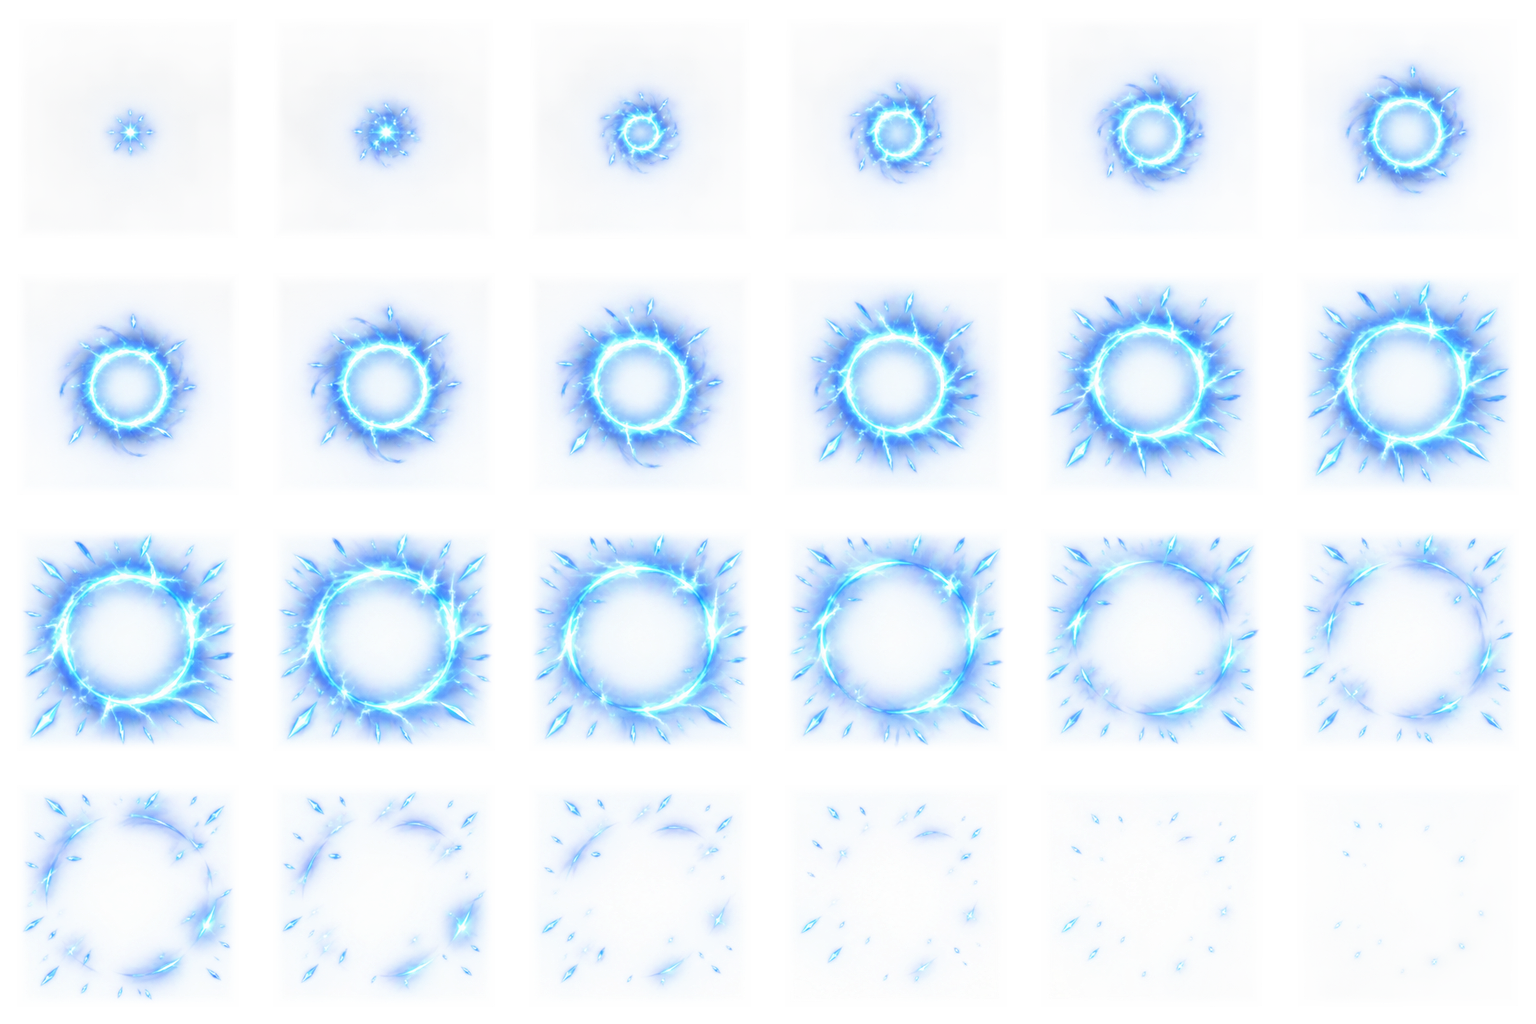
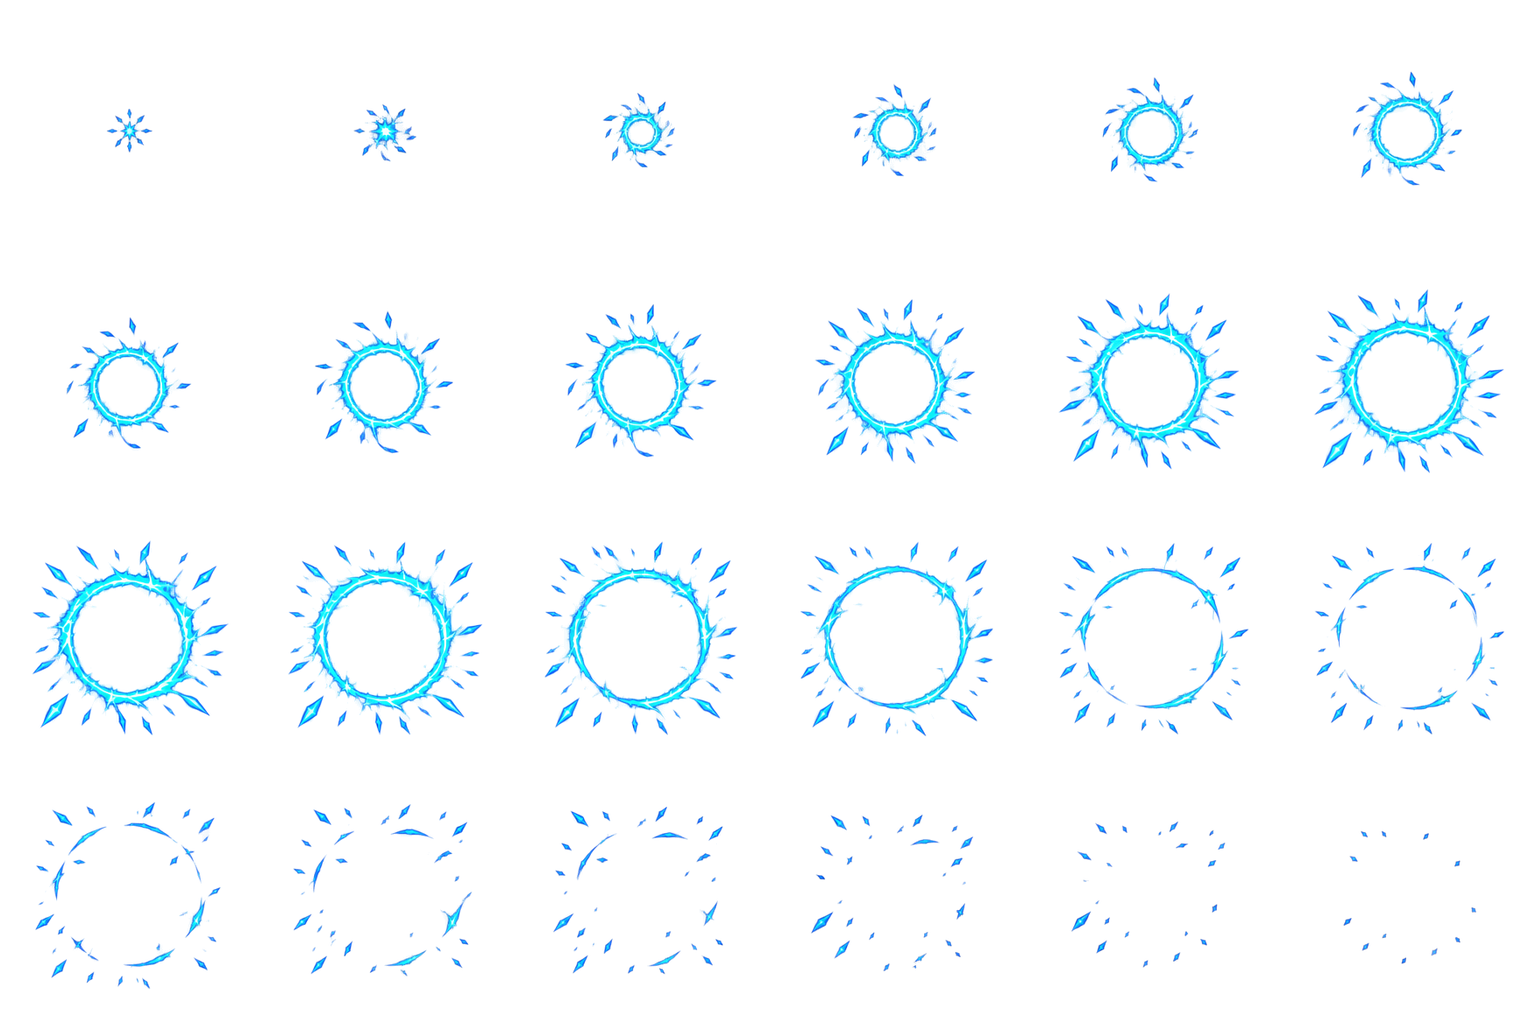
Fix Eclipse repulsion transparency and show shorter ultimate charge

diff --git a/index.html b/index.html
@@ -12,5 +12,5 @@
 <section id="modeScreen" class="app-screen" hidden></section><div id="shopConfirm" hidden></div>
 <div id="integrationLoading" role="status" aria-live="polite"><span class="eyebrow">ELDORIA</span><h2>Iniciando Arena dos Campeões…</h2><p id="bootStage">Preparando menus e personagens.</p></div>
 <script src="js/diagnostico.js"></script>
-<script src="js/jogo.js?v=35"></script><script src="js/identidades_campeoes.js?v=11"></script><script src="js/seis_identidades.js?v=20"></script><script src="js/impactos_futuros.js?v=19"></script><script src="js/arena_horizontal.js?v=16"></script><script src="js/lobby_real.js?v=9"></script><script src="js/menus_simples.js?v=20"></script><script src="js/pixel_sprite.js?v=8"></script><script src="js/combate_identidades.js?v=26"></script><script src="js/combate_seis.js?v=27"></script><script src="js/arte_identidades.js?v=30"></script><script src="js/arte_seis.js?v=27"></script><script src="js/interface_identidades.js?v=11"></script><script src="js/interface_seis.js?v=10"></script><script src="js/arena_arte.js?v=15"></script><script src="js/layout_fixo.js?v=19"></script><script src="js/ninja_v22.js?v=26"></script><script src="js/corpos_v24.js?v=28"></script><script src="js/ninja_v25.js?v=26"></script><script src="js/acoes_universais.js?v=26"></script><script src="js/ichigo_v27.js?v=30"></script><script src="js/solar_v29.js?v=33"></script><script src="js/eclipse_v30.js?v=32"></script><script src="js/recuperar_artes.js?v=20"></script><script src="js/ui_escala.js?v=4"></script><script src="js/chefes_base.js?v=1"></script><script src="js/chefes_looks.js?v=1"></script><script src="js/vilao_zorvath.js?v=2"></script><script src="js/cacada_dia.js?v=11"></script><script src="js/chefes_motor.js?v=3"></script><script src="js/chefes_lote.js?v=1"></script><script src="js/menu_v2.js?v=3"></script><script src="js/retencao.js?v=3"></script><script src="js/copia_chefe.js?v=3"></script><script src="js/fase_arcade.js?v=10"></script><script src="js/sobrevivencia.js?v=14"></script><script src="js/economia.js?v=2"></script><script src="js/combate_v3.js?v=14"></script><script src="js/hud_v3.js?v=4"></script><script src="js/combate_v3b.js?v=3"></script><script src="js/menus_v3.js?v=2"></script><script src="js/iniciar.js"></script><script src="js/tela_cheia.js?v=17"></script></body></html>
+<script src="js/jogo.js?v=35"></script><script src="js/identidades_campeoes.js?v=11"></script><script src="js/seis_identidades.js?v=21"></script><script src="js/impactos_futuros.js?v=19"></script><script src="js/arena_horizontal.js?v=16"></script><script src="js/lobby_real.js?v=9"></script><script src="js/menus_simples.js?v=20"></script><script src="js/pixel_sprite.js?v=8"></script><script src="js/combate_identidades.js?v=26"></script><script src="js/combate_seis.js?v=28"></script><script src="js/arte_identidades.js?v=30"></script><script src="js/arte_seis.js?v=27"></script><script src="js/interface_identidades.js?v=11"></script><script src="js/interface_seis.js?v=10"></script><script src="js/arena_arte.js?v=15"></script><script src="js/layout_fixo.js?v=19"></script><script src="js/ninja_v22.js?v=26"></script><script src="js/corpos_v24.js?v=28"></script><script src="js/ninja_v25.js?v=26"></script><script src="js/acoes_universais.js?v=26"></script><script src="js/ichigo_v27.js?v=30"></script><script src="js/solar_v29.js?v=33"></script><script src="js/eclipse_v30.js?v=33"></script><script src="js/recuperar_artes.js?v=20"></script><script src="js/ui_escala.js?v=4"></script><script src="js/chefes_base.js?v=1"></script><script src="js/chefes_looks.js?v=1"></script><script src="js/vilao_zorvath.js?v=2"></script><script src="js/cacada_dia.js?v=11"></script><script src="js/chefes_motor.js?v=3"></script><script src="js/chefes_lote.js?v=1"></script><script src="js/menu_v2.js?v=3"></script><script src="js/retencao.js?v=3"></script><script src="js/copia_chefe.js?v=3"></script><script src="js/fase_arcade.js?v=10"></script><script src="js/sobrevivencia.js?v=14"></script><script src="js/economia.js?v=2"></script><script src="js/combate_v3.js?v=14"></script><script src="js/hud_v3.js?v=4"></script><script src="js/combate_v3b.js?v=3"></script><script src="js/menus_v3.js?v=2"></script><script src="js/iniciar.js"></script><script src="js/tela_cheia.js?v=17"></script></body></html>
 

diff --git a/js/eclipse_v30.js b/js/eclipse_v30.js
@@ -2,7 +2,7 @@
 // Visual adapters only: damage, movement, resources and cooldowns stay in the combat engine.
 const ECLIPSE30_BODY=rwImage('assets/eclipse_v30/body.webp?v=31');
 const ECLIPSE30_KEYS=['repulse','attract','red','teleport','barrier','domain'];
-const ECLIPSE30_FX=Object.fromEntries([...ECLIPSE30_KEYS,'impact'].map(k=>[k,rwImage(`assets/eclipse_v30/${k}.webp?v=30`)]));
+const ECLIPSE30_FX=Object.fromEntries([...ECLIPSE30_KEYS,'impact'].map(k=>[k,rwImage(`assets/eclipse_v30/${k}.webp?v=${k==='repulse'?33:30}`)]));
 let eclipse30Registration=null;
 function eclipse30Register(){
  if(eclipse30Registration)return eclipse30Registration;
@@ -37,6 +37,8 @@ function eclipse30Cell(key,f){
  const im=ECLIPSE30_FX[key];
  c=document.createElement('canvas');c.width=c.height=256;const g=c.getContext('2d');
  g.drawImage(im,f%6*256,Math.floor(f/6)*256,256,256,0,0,256,256);
+ // Repulsion now has clean source alpha; do not alter its ring or fragments.
+ if(key==='repulse'){eclipse30Clean.set(id,c);return c;}
  const data=g.getImageData(0,0,256,256),d=data.data,round=key==='barrier';
  for(let y=0;y<256;y++)for(let x=0;x<256;x++){
   const i=(y*256+x)*4;let a=d[i+3];if(!a)continue;
@@ -67,8 +69,10 @@ rwPaintFX=function(e){
  if(e.skin!==4)return eclipse30OldPaint(e);
  const u=clamp(e.age/e.duration,0,1),x=e.follow?e.owner.x:e.x,y=e.follow?e.owner.y:e.y;
  if(e.kind==='warning'){
-  // Preserve the actual dodge window and area indicator.
-  return eclipse30OldPaint(e);
+  eclipse30OldPaint(e);
+  // Grow the domain visibly throughout its remaining dodge window.
+  if(e.slot===5&&e.owner.hp>0)eclipse30Effect(ctx,'domain',8,x,y-40,50+u*((e.radius||150)*2.3-50),0,false,.85);
+  return;
  }
  if(e.slot===4)return;
  if(e.kind==='departure'||e.kind==='arrival')return eclipse30Effect(ctx,'teleport',u*24,x,y-30,115);
@@ -86,10 +90,15 @@ integratedDepth=function(){
   eclipse30Effect(ctx,'red',e.age<.16?e.age/.16*8:8+Math.floor(e.age*24)%8,e.x,e.y-28,e.size||105,e.angle,true);
  }});
  for(const o of objects)if(o.v10Domain&&o.life>0&&o.owner.hp>0)list.push({kind:'eclipse-domain',y:o.y-180,priority:-1,paint(){
-  const f=o.age<.35?o.age/.35*8:o.life<.6?16+(1-o.life/.6)*8:8+Math.floor(o.age*16)%8;
+  const f=o.life<.6?16+(1-o.life/.6)*8:8+Math.floor(o.age*16)%8;
   eclipse30Effect(ctx,'domain',f,o.x,o.y-40,o.r*2.3,0,false,.85);
  }});
  for(const a of actors){if(a.skin!==4||a.hp<=0)continue;const s=reworkState(a);
+  const q=a.rwCast;
+  if(q?.slot===5&&q.age<q.release)list.push({kind:'eclipse-charge',y:a.y+.4,priority:4,paint(){
+   const u=clamp(q.age/q.release,0,1);
+   eclipse30Effect(ctx,'domain',8,a.x+Math.cos(q.angle)*20,a.y-23+Math.sin(q.angle)*8,24+u*26,0,false,.9);
+  }});
   const birth=Reforged.effects.find(e=>e.owner===a&&e.slot===4&&e.kind==='cast'&&e.age<e.duration);
   if(s.barrier||s.barrierBroken>3.5)list.push({kind:'eclipse-barrier',y:a.y+.3,priority:3,paint(){
    const f=!s.barrier?16+(4-s.barrierBroken)/.5*8:birth?birth.age/birth.duration*8:clock-s.barrierHit<.4?8+(1-s.barrierEnergy/240)*7:6+Math.floor(vfxTime*4)%2;

diff --git a/js/seis_identidades.js b/js/seis_identidades.js
@@ -38,7 +38,7 @@ const ORIGINAL_REWORK_KITS=[
 ['Esfera Rubra','Projétil lento de 165 de dano que explode em raio 85. Viaja até 430 e pode ser bloqueado por paredes.',12,430,.45,1,'orb'],
 ['Teleporte Curto','Aparece ao lado do alvo até 240, com breve invulnerabilidade. Precisa de espaço livre e caminho desobstruído.',10,240,.12,.45,'teleport'],
 ['Barreira Cósmica','Liga ou desliga a barreira de 240 pontos. Absorve projéteis e especiais distantes, reduz sua velocidade em 28%. Ao quebrar, fica 4s exposto. Recarrega desligada após 3s sem absorver dano.',1,0,.16,.4,'barrier'],
-['Abismo Silente','Depois de um aviso de 0,6s, cria uma zona de raio 150 por 3s. Imobiliza inimigos que permanecem dentro e causa 20 de dano por segundo.',32,300,.45,1.4,'domain']
+['Abismo Silente','Após 0,2s de carga visível e um aviso de 0,25s, cria uma zona de raio 150 por 3s. Imobiliza inimigos que permanecem dentro e causa 20 de dano por segundo.',32,300,.2,1.15,'domain']
 ]},
 {skin:5,key:'hunter',resource:'Pacto',style:'Carga e explosão',color:'#c6f27a',summary:'Escolha a abertura para carregar. Qualquer dano recebido cancela a carga e perde o poder preparado.',skills:[
 ['Soco Carregado','Segure 1 por até 1,8s: soco de 65 a 260 de dano, com empurrão crescente. Fica parado; qualquer dano recebido interrompe a carga.',4,125,.18,.75,'charge'],

diff --git a/js/combate_seis.js b/js/combate_seis.js
@@ -163,7 +163,7 @@ rwRelease=function(a,q){if(a.skin>=6)return originalRelease(a,q);const s=reworkS
   if(slot===2)rwLaunch(a,slot,angle,430,210,165,19,{size:105,splash:85,knock:28});
   if(slot===3)originalBlink(a,angle,240,true);
   if(slot===4){s.barrier=true;fx('cast',.7,{size:135});}
-  if(slot===5){const pt=q.target;rwFx(a,slot,pt.x,pt.y,'warning',.6,{radius:150});rwLater(a,.6,()=>{objects.push({kind:'v10domain',v10Domain:true,owner:a,x:pt.x,y:pt.y,r:150,life:3,age:0,cd:0});});}
+  if(slot===5){const pt=q.target;rwFx(a,slot,pt.x,pt.y,'warning',.25,{radius:150});rwLater(a,.25,()=>{objects.push({kind:'v10domain',v10Domain:true,owner:a,x:pt.x,y:pt.y,r:150,life:3,age:0,cd:0});});}
  }else if(a.skin===5){
   if(slot===0){rwArc(a,angle,100+(q.charge||0)*25,65+195*(q.charge||0),slot,1.8,15+(q.charge||0)*65);fx('cast',.7,{size:105+(q.charge||0)*70});}
   if(slot===1){rwArc(a,angle,85,48,slot,1.7,6);fx('cast',.35,{size:85});}

diff --git a/assets/eclipse_v30/README.md b/assets/eclipse_v30/README.md
@@ -36,3 +36,11 @@ Validação: `node tests/eclipse-v30.cjs`.
 `js/eclipse_v30.js` conecta o corpo, os ícones e os sete efeitos aos eventos existentes de combate; `css/eclipse_v30.css` aplica o cenário da seleção. O retrato de seleção aponta para `assets/eclipse_v30/portrait.webp?v=31`; a referência original fica preservada. O corpo é desenhado diretamente na resolução do canvas, como os quatro primeiros campeões. A barreira segue sua ativação, absorção e quebra; o domínio segue a duração real da zona. O modo atual mantém três habilidades + ultimate, dash dedicado e barreira passiva; o modo legado mantém os seis slots.
 
 Com um servidor em `http://127.0.0.1:8000`, execute `node tests/eclipse-v30-integration.cjs` para verificar a integração em ambos os modos, incluindo seleção em desktop e celular.
+
+## Revisão 33 — Repulsão e carga do Abismo Silente
+
+`repulse.webp` foi refeito com somente anel azul e fragmentos sobre transparência real, sem placa clara ou névoa branca. Mantém 24 células, margens transparentes e WebP sem perdas. A Repulsão usa diretamente o alfa da arte, sem a limpeza de névoa aplicada aos outros efeitos.
+
+O Abismo Silente mostra uma esfera pequena junto às mãos nos primeiros 0,2 s. Durante os 0,25 s seguintes, a esfera cresce na área marcada, antes da ativação do domínio. A zona abre em aproximadamente 0,45 s (antes: 1,05 s). Raio 150, duração ativa de 3 s e recarga de 32 s permanecem iguais. A descrição da habilidade e as versões de cache acompanham a alteração.
+
+Validação da revisão: `tests/eclipse-v30.cjs` e `tests/eclipse-v30-integration.cjs` passam, incluindo transparência do interior dos anéis, carga visível, janela de aviso e ativação do domínio nos modos atual e legado. O teste geral `tests/six-identities.cjs` ainda falha em `cast 0/4/R` (Guerreiro Astral); a mesma falha foi reproduzida com os scripts anteriores à revisão.
